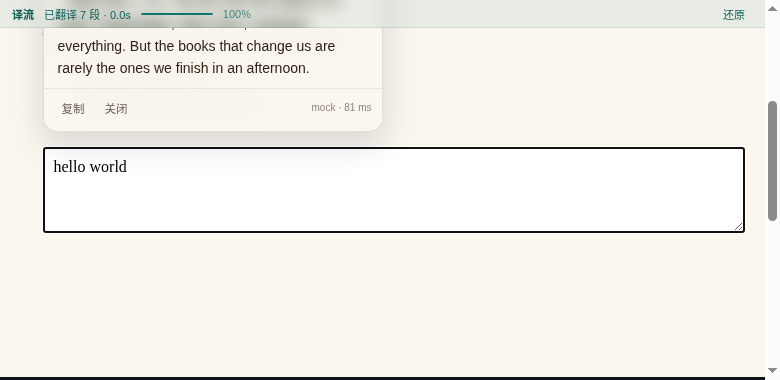
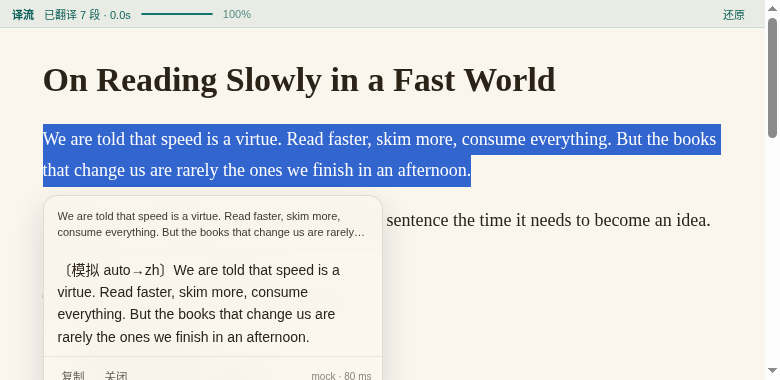
fix: bubble positioning near viewport edges; refresh screenshots

diff --git a/src/entrypoints/content.ts b/src/entrypoints/content.ts
@@ -191,12 +191,16 @@ export default defineContentScript({
 
     const positionCard = (target: HTMLDivElement, rect: DOMRect) => {
       const margin = 8;
-      const width = 340;
+      const box = target.getBoundingClientRect();
+      const width = box.width || 340;
+      const height = box.height || 180;
+
       const left = Math.min(Math.max(margin, rect.left), window.innerWidth - width - margin);
       let top = rect.bottom + margin;
-      const estimated = 180;
-      if (top + estimated > window.innerHeight - margin) {
-        top = Math.max(margin, rect.top - estimated - margin);
+      if (top + height > window.innerHeight - margin) top = rect.top - height - margin;
+      if (top < margin) {
+        top = margin;
+        target.style.maxHeight = `${window.innerHeight - margin * 2}px`;
       }
       target.style.left = `${left}px`;
       target.style.top = `${top}px`;
@@ -217,6 +221,12 @@ export default defineContentScript({
     const requestTranslation = async (text: string, rect: DOMRect, sourceEl: HTMLElement) => {
       closeCard();
       hideTrigger();
+
+      let anchor = rect;
+      if (rect.bottom < 0 || rect.top > window.innerHeight) {
+        sourceEl.scrollIntoView({ block: 'center' });
+        anchor = sourceEl.getBoundingClientRect();
+      }
       card = document.createElement('div');
       card.className = 'card';
       card.innerHTML = `
@@ -227,8 +237,8 @@ export default defineContentScript({
       `;
       (card.querySelector('.quote') as HTMLElement).textContent = text;
       styleCardFromPalette(card, samplePalette(sourceEl));
-      positionCard(card, rect);
       layer.appendChild(card);
+      positionCard(card, anchor);
 
       try {
         const settings = await getSettings().catch(() => null);
